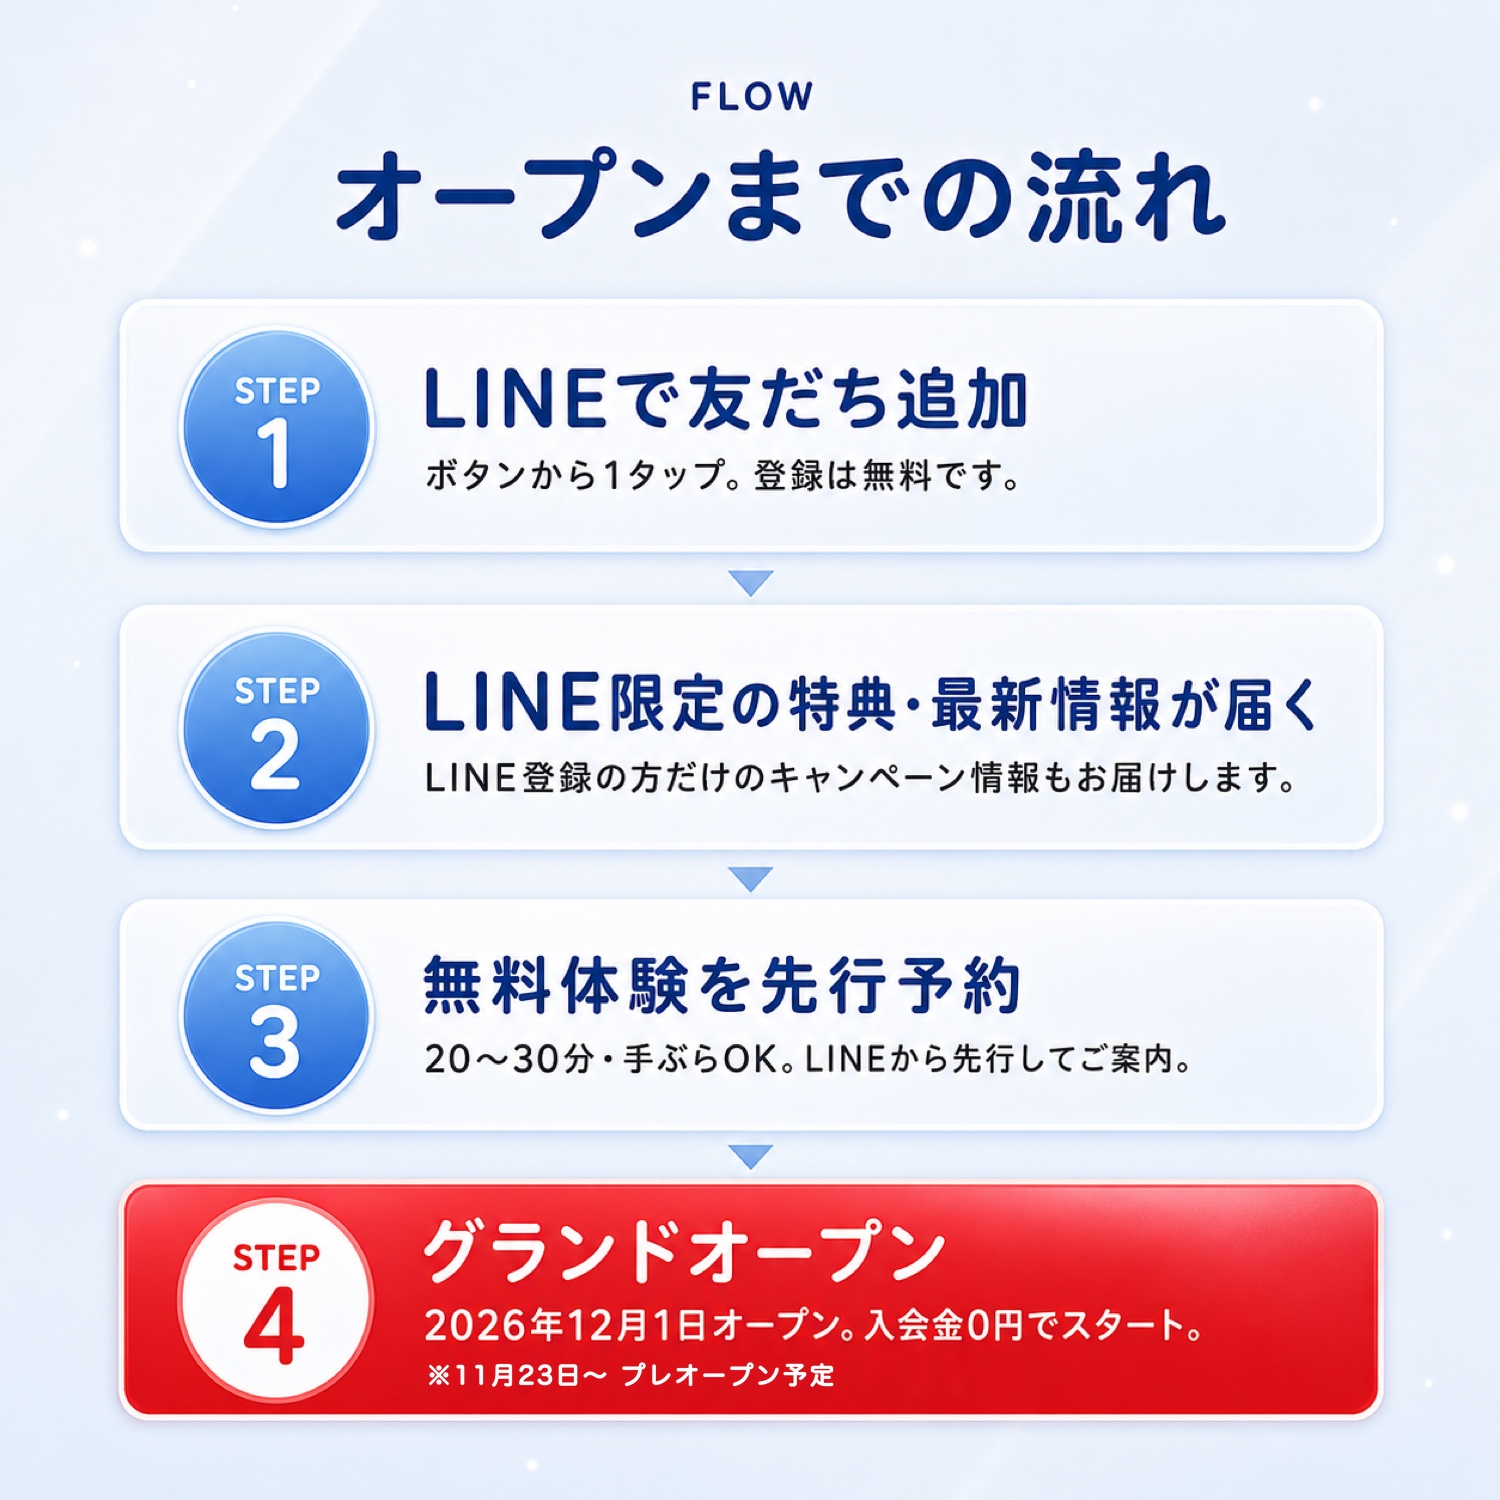
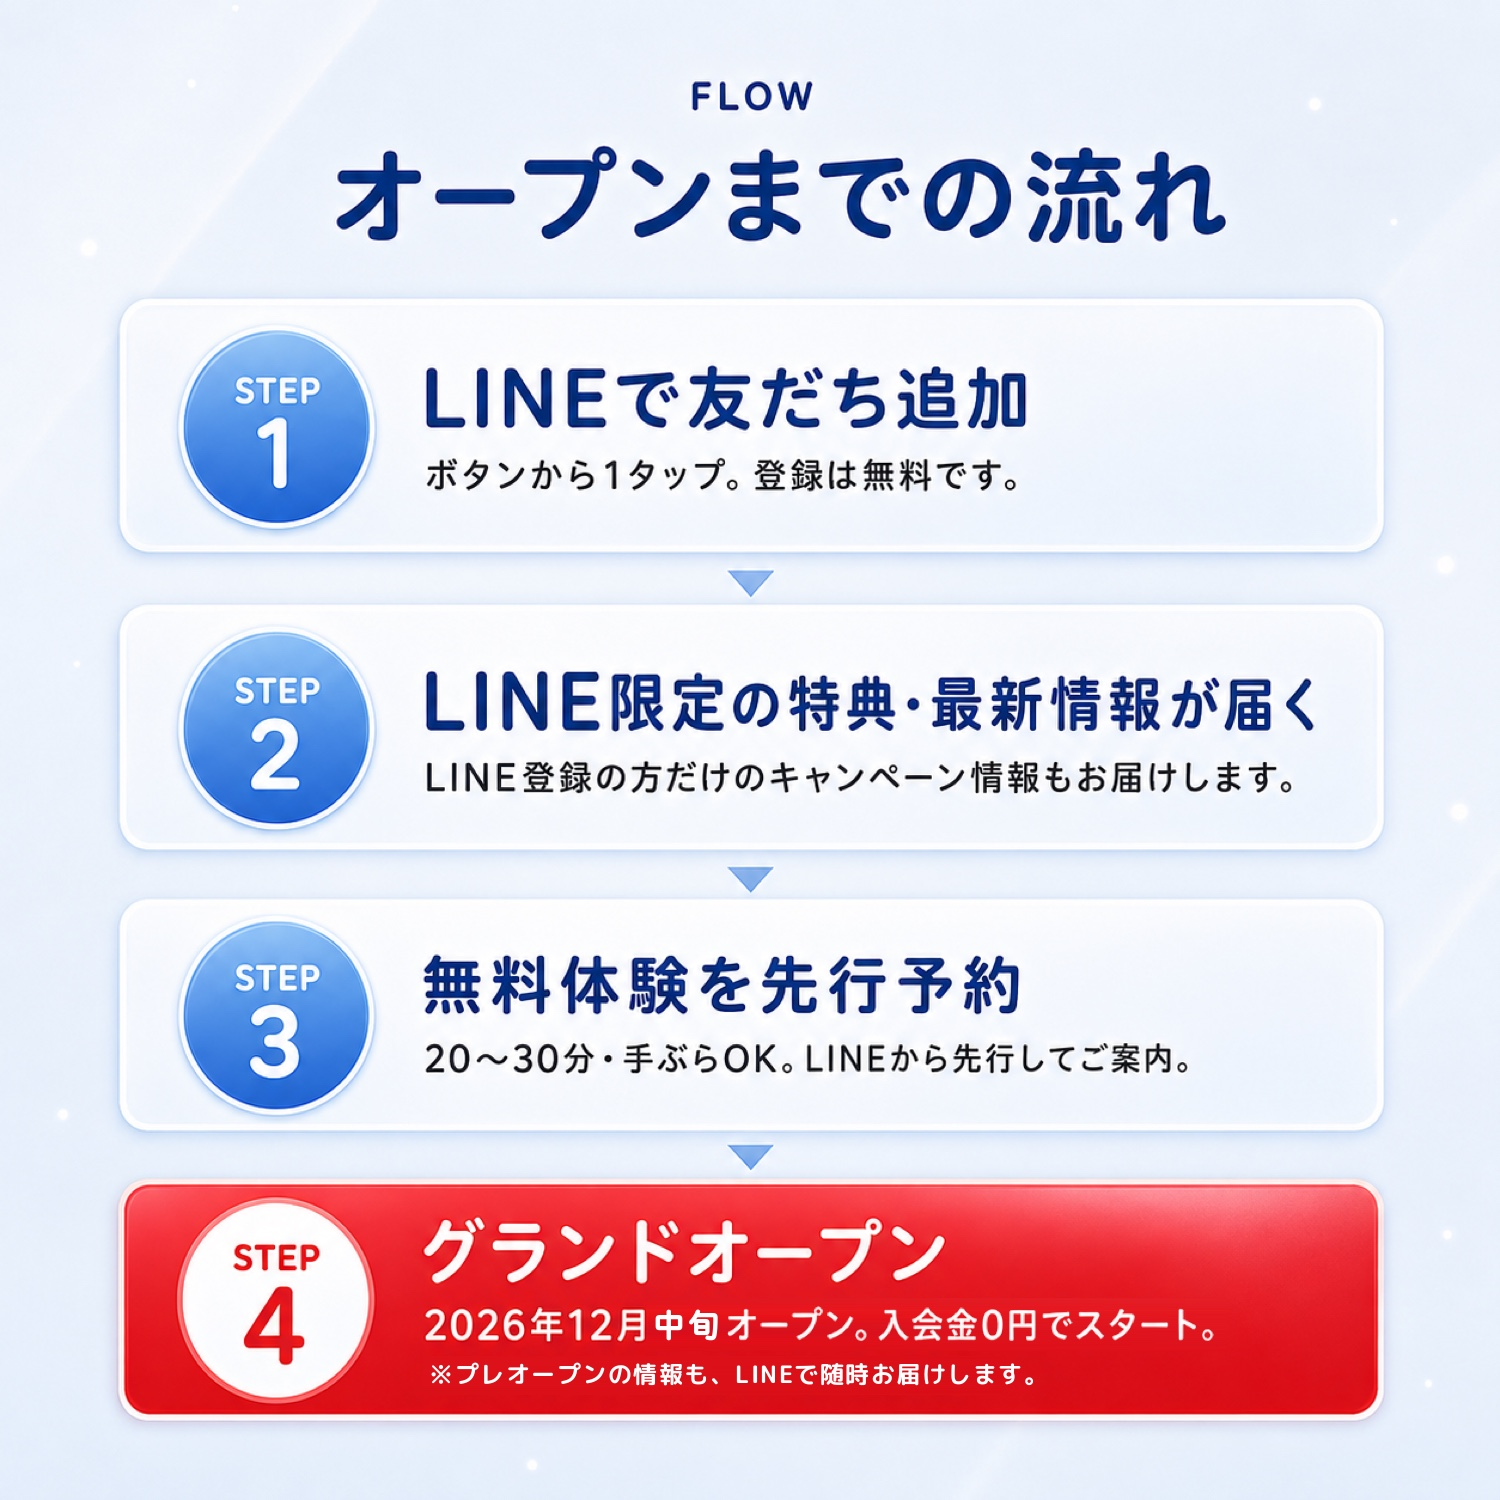
update

Changed region(s): [[0.276, 0.8587, 0.7973, 0.9507]]

diff --git a/index.html b/index.html
@@ -13,9 +13,9 @@
   'https://www.googletagmanager.com/gtm.js?id='+i+dl;f.parentNode.insertBefore(j,f);
   })(window,document,'script','dataLayer','GTM-TWNVTXRG');</script>
 
-  <title>プチゴル つくば店｜つくば駅徒歩8分のインドアゴルフ｜2026年12月1日 NEW OPEN</title>
-  <meta name="description" content="つくば駅徒歩8分に、朝5時〜24時・年中無休のインドアゴルフスタジオ「プチゴル」が2026年12月1日グランドオープン。月額定額制4,400円〜、オープン記念で入会金0円＋無料体験。LINE友だち追加で先着のお得な情報をお届けします。">
-  <meta property="og:title" content="プチゴル つくば店｜2026年12月1日 NEW OPEN">
+  <title>プチゴル つくば店｜つくば駅徒歩8分のインドアゴルフ｜2026年12月中旬 GRAND OPEN</title>
+  <meta name="description" content="つくば駅徒歩8分に、朝5時〜24時・年中無休のインドアゴルフスタジオ「プチゴル」が2026年12月中旬グランドオープン。月額定額制4,400円〜、オープン記念で入会金0円＋無料体験。LINE友だち追加で先着のお得な情報をお届けします。">
+  <meta property="og:title" content="プチゴル つくば店｜2026年12月中旬 GRAND OPEN">
   <meta property="og:description" content="つくば駅徒歩8分・朝5時〜24時のインドアゴルフ。LINE友だち追加で入会金0円などの先着情報をお届け。">
   <meta property="og:type" content="website">
   <meta property="og:site_name" content="プチゴル つくば店">
@@ -25,12 +25,12 @@
 
   <link rel="canonical" href="https://petitgolf.jp/lp/">
   <meta property="og:url" content="https://petitgolf.jp/lp/">
-  <meta property="og:image" content="https://petitgolf.jp/lp/img/ogp.jpg">
+  <meta property="og:image" content="https://petitgolf.jp/lp/img/ogp.jpg?v=3">
 
-  <link rel="icon" href="img/favicon.ico" sizes="16x16 32x32 48x48">
-  <link rel="icon" href="img/favicon-32.png" type="image/png" sizes="32x32">
-  <link rel="icon" href="img/favicon-192.png" type="image/png" sizes="192x192">
-  <link rel="apple-touch-icon" href="img/apple-touch-icon.png" sizes="180x180">
+  <link rel="icon" href="img/favicon.ico?v=2" sizes="16x16 32x32 48x48">
+  <link rel="icon" href="img/favicon-32.png?v=2" type="image/png" sizes="32x32">
+  <link rel="icon" href="img/favicon-192.png?v=2" type="image/png" sizes="192x192">
+  <link rel="apple-touch-icon" href="img/apple-touch-icon.png?v=2" sizes="180x180">
   <link rel="preconnect" href="https://fonts.googleapis.com">
   <link rel="preconnect" href="https://fonts.gstatic.com" crossorigin>
   <link href="https://fonts.googleapis.com/css2?family=M+PLUS+Rounded+1c:wght@500;700;800&amp;display=swap" rel="stylesheet">
@@ -52,10 +52,10 @@
     <main>
 
       <section class="slice fv">
-        <img class="fv-logo" src="img/logo.png" alt="PetitGolf プチゴル" width="480" height="436" onerror="this.hidden=true">
+        <img class="fv-logo" src="img/logo.png?v=2" alt="PetitGolf プチゴル" width="400" height="364" onerror="this.hidden=true">
         <div class="photo-wrap">
-          <img src="img/01-fv.jpg?v=3" width="1500" height="2250" fetchpriority="high"
-               alt="予告｜つくば駅徒歩8分｜2026年12月1日 NEW OPEN!｜インドアゴルフスタジオ プチゴル つくば店｜月額4,400円〜（税込）">
+          <img src="img/01-fv.jpg?v=4" width="1500" height="2250" fetchpriority="high"
+               alt="予告｜つくば駅徒歩8分｜2026年12月中旬 GRAND OPEN!（プレオープン情報も随時お届けします）｜インドアゴルフスタジオ プチゴル つくば店｜月額4,400円〜（税込）">
           <span class="img-note">※画像はイメージです</span>
         </div>
         <div class="notes">
@@ -133,8 +133,8 @@
       </section>
 
       <section class="slice flow">
-        <img src="img/04-flow.jpg?v=3" width="1500" height="1500" loading="lazy"
-             alt="オープンまでの流れ｜STEP1 LINEで友だち追加／STEP2 LINE限定の特典・最新情報が届く／STEP3 無料体験を先行予約／STEP4 グランドオープン（2026年12月1日・11月23日〜プレオープン予定）">
+        <img src="img/04-flow.jpg?v=4" width="1500" height="1500" loading="lazy"
+             alt="オープンまでの流れ｜STEP1 LINEで友だち追加／STEP2 LINE限定の特典・最新情報が届く／STEP3 無料体験を先行予約／STEP4 グランドオープン（2026年12月中旬オープン。入会金0円でスタート。※プレオープンの情報も、LINEで随時お届けします。）">
       </section>
 
       <section class="faq">

diff --git a/js/main.js b/js/main.js
@@ -16,7 +16,7 @@ var SITE = {
   },
 
   // グランドオープン時期の表記（FVバッジ・流れ・FAQ・アクセスに反映）
-  openDate: '2026年12月1日',
+  openDate: '2026年12月中旬',
 
   // 入会金0円キャンペーンの注記（FV・特典・料金・FAQ・最終CTAの5箇所に同文で表示）
   campaignNote: '※入会金0円は6ヶ月間のご継続が条件です（6ヶ月未満のご退会は違約金22,000円）。表示価格はすべて税込。',
